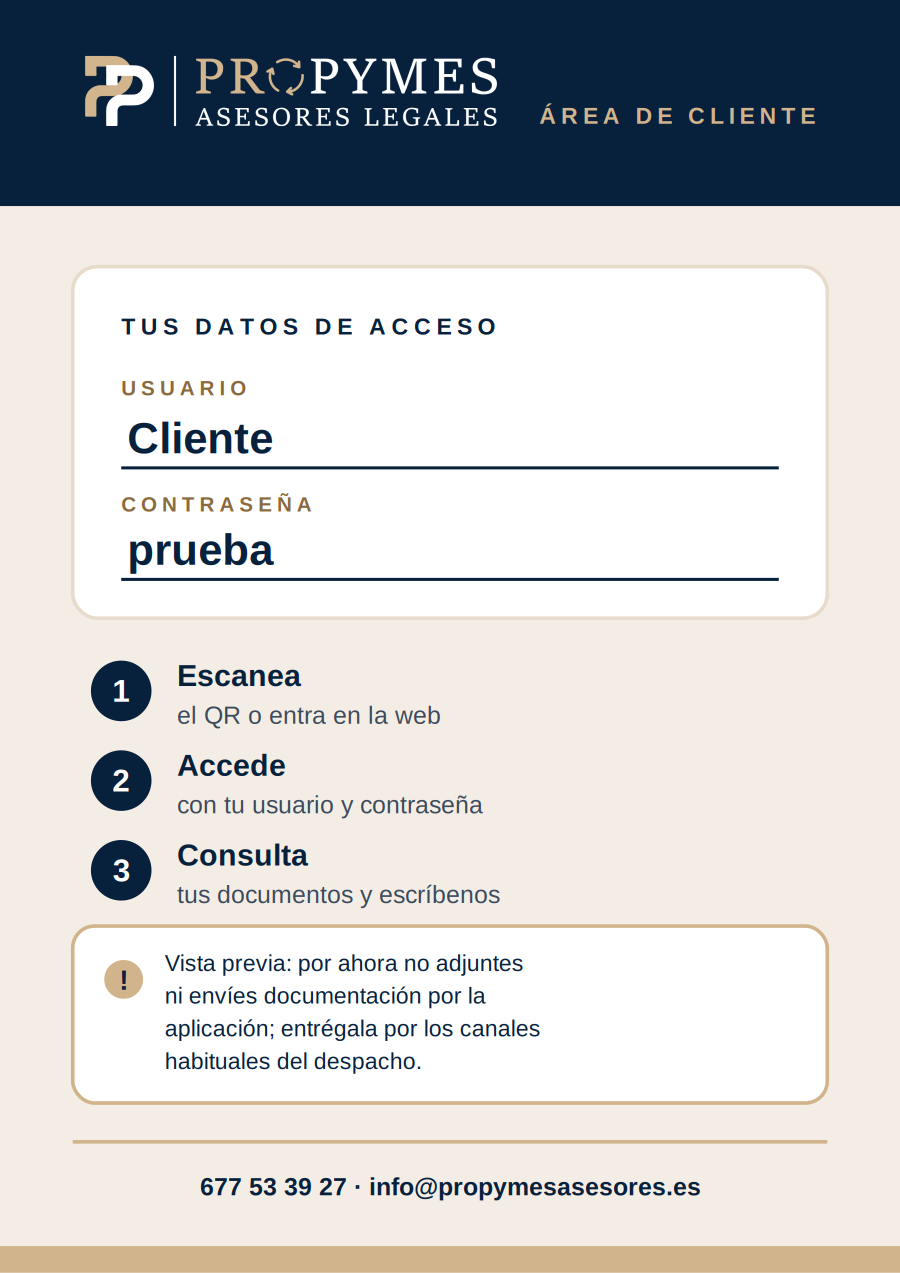
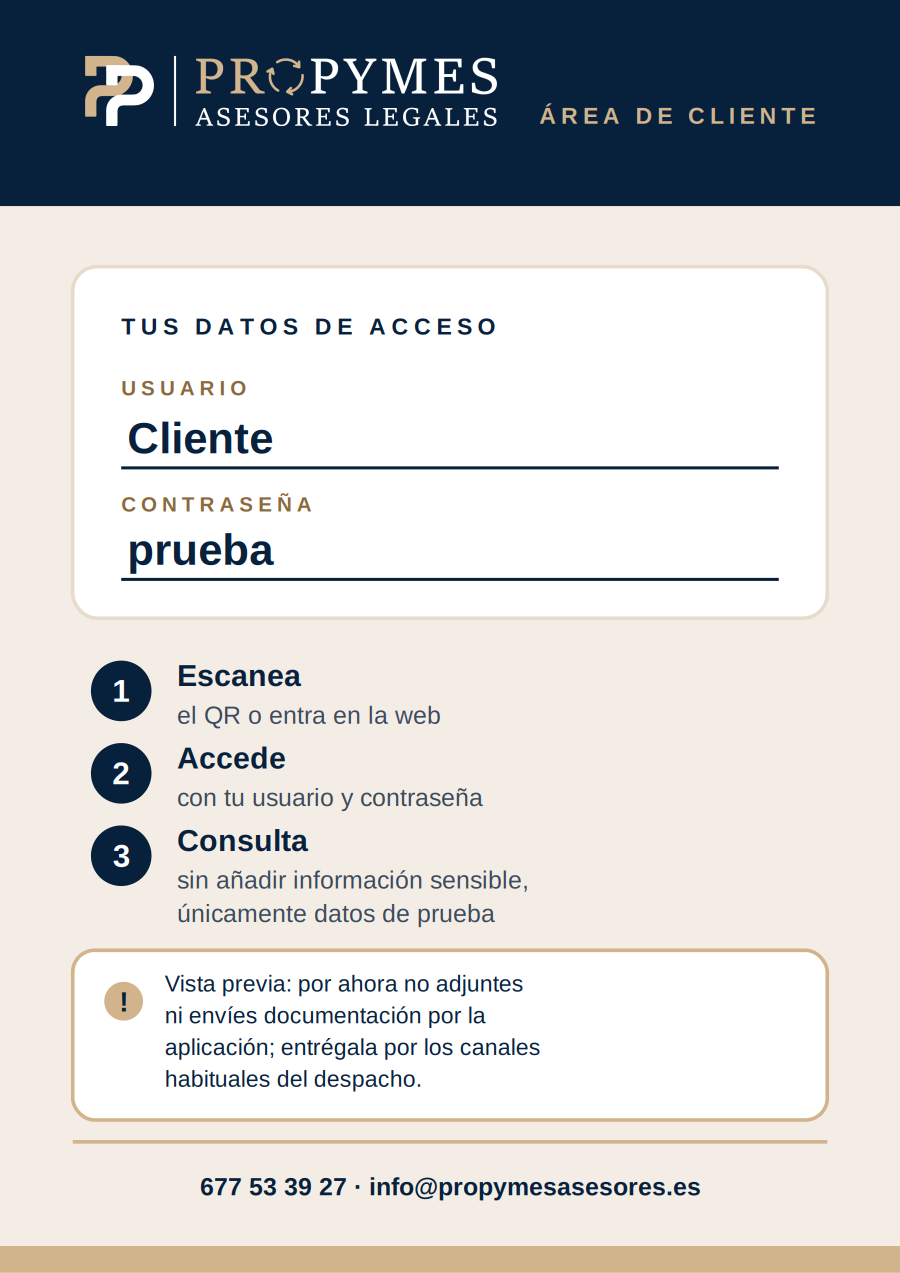
Octavilla 1/8: el paso 3 indica que no se añade información sensible, solo de prueba
Claude-Session: https://claude.ai/code/session_01KXK55ozJX9jTLD4ZSmWvam

Changed region(s): [[0.0622, 0.5821, 0.9333, 0.8885]]

diff --git a/material/octavilla/make8.py b/material/octavilla/make8.py
@@ -34,7 +34,8 @@ FRONT = card(
     + t(W / 2, 96.2, "app.propymesasesores.es", 2.5, TAN_DARK, "bold", "middle"),
     CREAM)
 
-STEPS = [("Escanea", "el QR o entra en la web"), ("Accede", "con tu usuario y contraseña"), ("Consulta", "tus documentos y escríbenos")]
+STEPS = [("Escanea", ["el QR o entra en la web"]), ("Accede", ["con tu usuario y contraseña"]),
+         ("Consulta", ["sin añadir información sensible,", "únicamente datos de prueba"])]
 AVISO = ["Vista previa: por ahora no adjuntes", "ni envíes documentación por la", "aplicación; entrégala por los canales", "habituales del despacho."]
 
 BACK = card(
@@ -51,15 +52,15 @@ BACK = card(
     + t(10.5, 46.6, PASSWORD, 3.6, NAVY, "bold")
     + f'<line x1="10" y1="47.8" x2="{W - 10}" y2="47.8" stroke="{NAVY}" stroke-width=".25"/>'
     # pasos
-    + "".join(f'<circle cx="10" cy="{57 + i * 7.4}" r="2.5" fill="{NAVY}"/>'
-              + t(10, 57.9 + i * 7.4, str(i + 1), 2.6, "#fff", "bold", "middle")
-              + t(14.6, 56.6 + i * 7.4, h, 2.5, NAVY, "bold")
-              + t(14.6, 59.7 + i * 7.4, b, 2.05, INK)
+    + "".join(f'<circle cx="10" cy="{57 + i * 6.8}" r="2.5" fill="{NAVY}"/>'
+              + t(10, 57.9 + i * 6.8, str(i + 1), 2.6, "#fff", "bold", "middle")
+              + t(14.6, 56.6 + i * 6.8, h, 2.5, NAVY, "bold")
+              + lines(14.6, 59.7 + i * 6.8, b, 2.05, INK, lh=1.35)
               for i, (h, b) in enumerate(STEPS))
     # aviso
-    + f'<rect x="6" y="76.4" width="{W - 12}" height="14.6" rx="1.8" fill="#fff" stroke="{TAN}" stroke-width=".3"/>'
-    + f'<circle cx="10.2" cy="80.8" r="1.6" fill="{TAN}"/>' + t(10.2, 81.65, "!", 2.3, NAVY, "bold", "middle")
-    + lines(13.6, 80.1, AVISO, 1.9, NAVY, lh=1.42)
+    + f'<rect x="6" y="78.4" width="{W - 12}" height="14" rx="1.8" fill="#fff" stroke="{TAN}" stroke-width=".3"/>'
+    + f'<circle cx="10.2" cy="82.6" r="1.6" fill="{TAN}"/>' + t(10.2, 83.45, "!", 2.3, NAVY, "bold", "middle")
+    + lines(13.6, 81.8, AVISO, 1.9, NAVY, lh=1.38)
     # contacto
     + f'<line x1="6" y1="94.2" x2="{W - 6}" y2="94.2" stroke="{TAN}" stroke-width=".3"/>'
     + t(W / 2, 98.6, f'{PHONE}  ·  {EMAIL}', 2.05, NAVY, "bold", "middle")
